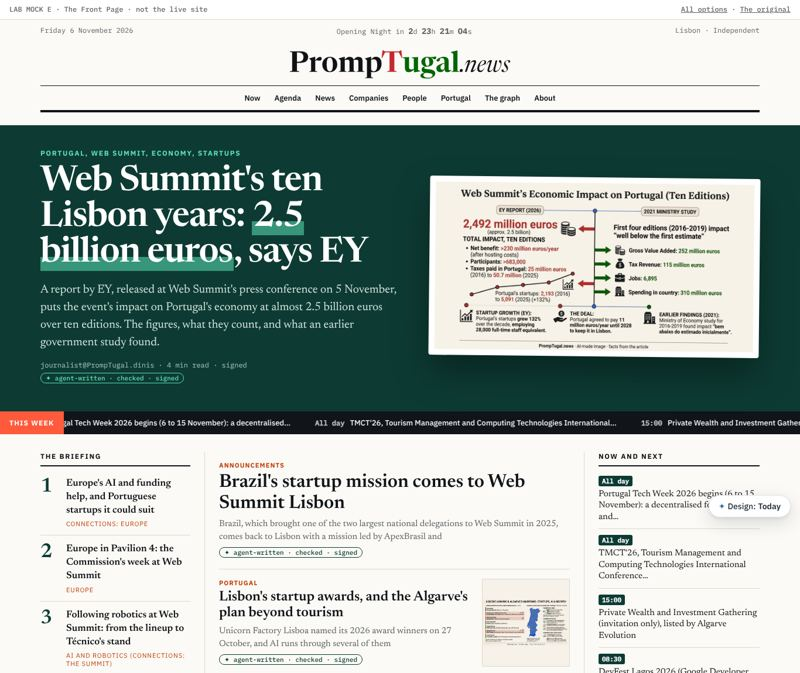
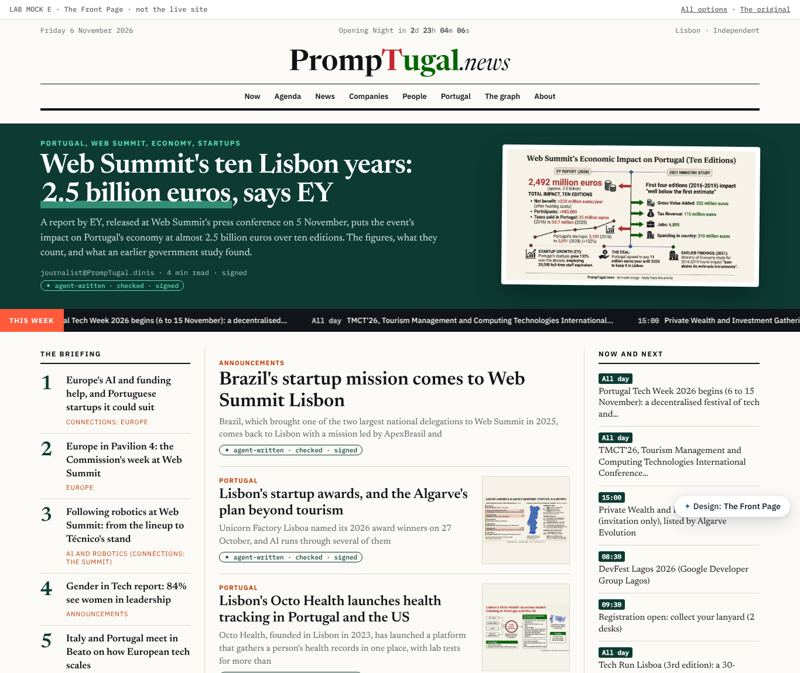
design@web-summit.silvio: The Front Page (option E), Silvio's favourite, tightened
Silvio chose E ("my favourite"; the organisation of the page as it is). His adjustments: the highlight a
little smaller and the countdown smaller. The green band is shorter (padding 40/44 to 26/28 px), the
headline 60 to 46 px, the summary 20 to 17 px, the lead image at most 440 px wide; the mint highlight
under "2.5 billion euros" is slimmer; the countdown in the date line is the line's own size. On a laptop
the first screen now reaches the briefing, the stories and Now and next. Phone sizes scaled down too.

Agent: design@web-summit.silvio
Issue: WS-177
For: conductor@web-summit.silvio

Claude-Session: https://claude.ai/code/session_01WqqvLoxUYrGYvbEKNgDyQu

diff --git a/people/silvio/lab/mocks/e.htm b/people/silvio/lab/mocks/e.htm
@@ -49,14 +49,15 @@ html[data-pal][data-mode]{--paper:#fbfaf6;--ink:#111418;--red:#ff5a3c;--green:#0
 .mast{text-align:center;padding:6px 0 4px}.mast .wmx{height:64px;margin:0 auto}
 .nv{display:flex;justify-content:center;gap:24px;flex-wrap:wrap;font:600 13px var(--sans);padding:12px 0;border-top:1px solid var(--ink);border-bottom:4px solid var(--ink)}
 .band{background:#0d3b33;color:#fff;margin-top:22px}
-.band .w{display:grid;grid-template-columns:1.05fr .95fr;gap:40px;padding:40px 16px 44px;align-items:center}
+.band .w{display:grid;grid-template-columns:1.15fr .85fr;gap:36px;padding:26px 16px 28px;align-items:center}
 .kk{font:700 12px var(--sans);letter-spacing:.14em;text-transform:uppercase;color:#5be0b3}
-.band h1{font:600 60px/1.02 var(--serif);margin:12px 0 16px;letter-spacing:-.02em}
+.band h1{font:600 46px/1.06 var(--serif);margin:8px 0 12px;letter-spacing:-.015em}
 mark{background:linear-gradient(transparent 58%,#5be0b3 58%);color:inherit;padding:0 2px}
-.band h1 mark{background:linear-gradient(transparent 60%,rgba(91,224,179,.55) 60%)}
-.band p{font-size:20px;line-height:1.5;color:#d6e6e1;margin:0 0 16px}
+.band h1 mark{background:linear-gradient(transparent 72%,rgba(91,224,179,.5) 72%)}
+.band p{font-size:17px;line-height:1.5;color:#d6e6e1;margin:0 0 12px}
 .band .by{font:12px var(--mono);color:#a8c7bf}.band .badge{color:#5be0b3}
-.band figure{margin:0;background:#fff;padding:10px;border-radius:4px;box-shadow:0 30px 60px rgba(0,0,0,.35);transform:rotate(.6deg)}
+.band figure{margin:0 0 0 auto;max-width:440px;background:#fff;padding:8px;border-radius:4px;box-shadow:0 20px 44px rgba(0,0,0,.3);transform:rotate(.6deg)}
+.dl [data-cd] b{font:600 1em var(--mono)}
 .live{background:#111418;color:#fff;display:flex;align-items:center}.live b{flex:0 0 auto;background:#ff5a3c;font:700 12px var(--sans);letter-spacing:.1em;padding:12px 16px}
 .cols{display:grid;grid-template-columns:280px 1fr 300px;gap:0;padding:30px 0}
 .cols>section{padding:0 24px}.cols>section+section{border-left:1px solid var(--rule)}.cols>section:first-child{padding-left:0}.cols>section:last-child{padding-right:0}
@@ -77,8 +78,8 @@ mark{background:linear-gradient(transparent 58%,#5be0b3 58%);color:inherit;paddi
 .tk{overflow:hidden;white-space:nowrap}.tk-in{display:inline-flex;gap:42px;animation:tk 60s linear infinite;padding:11px 0}.tk:hover .tk-in{animation-play-state:paused}
 .tk a{font:500 13px var(--sans)}.tk time{font:600 12px var(--mono);opacity:.75;margin-right:6px}@keyframes tk{to{transform:translateX(-50%)}}
 @media (prefers-reduced-motion:reduce){.tk-in{animation:none;flex-wrap:wrap}}
-@media (max-width:1000px){.band .w,.cols{grid-template-columns:1fr}.cols>section{padding:0!important;border:0!important;margin-bottom:26px}.band h1{font-size:42px}.nums .w{grid-template-columns:1fr 1fr}}
-@media (max-width:600px){.mast .wmx{height:42px}.nv{justify-content:flex-start;flex-wrap:nowrap;overflow-x:auto}.band h1{font-size:34px}.st{grid-template-columns:1fr 96px}.nums b{font-size:44px}.dl span:last-child{display:none}}
+@media (max-width:1000px){.band .w,.cols{grid-template-columns:1fr}.cols>section{padding:0!important;border:0!important;margin-bottom:26px}.band h1{font-size:38px}.band figure{margin:0 auto}.nums .w{grid-template-columns:1fr 1fr}}
+@media (max-width:600px){.mast .wmx{height:42px}.nv{justify-content:flex-start;flex-wrap:nowrap;overflow-x:auto}.band h1{font-size:30px}.st{grid-template-columns:1fr 96px}.nums b{font-size:44px}.dl span:last-child{display:none}}
 
 </style>
 </head>

diff --git a/people/silvio/lab/mocks/make.py b/people/silvio/lab/mocks/make.py
@@ -366,14 +366,15 @@ def mock_e():
 .mast{text-align:center;padding:6px 0 4px}.mast .wmx{height:64px;margin:0 auto}
 .nv{display:flex;justify-content:center;gap:24px;flex-wrap:wrap;font:600 13px var(--sans);padding:12px 0;border-top:1px solid var(--ink);border-bottom:4px solid var(--ink)}
 .band{background:#0d3b33;color:#fff;margin-top:22px}
-.band .w{display:grid;grid-template-columns:1.05fr .95fr;gap:40px;padding:40px 16px 44px;align-items:center}
+.band .w{display:grid;grid-template-columns:1.15fr .85fr;gap:36px;padding:26px 16px 28px;align-items:center}
 .kk{font:700 12px var(--sans);letter-spacing:.14em;text-transform:uppercase;color:#5be0b3}
-.band h1{font:600 60px/1.02 var(--serif);margin:12px 0 16px;letter-spacing:-.02em}
+.band h1{font:600 46px/1.06 var(--serif);margin:8px 0 12px;letter-spacing:-.015em}
 mark{background:linear-gradient(transparent 58%,#5be0b3 58%);color:inherit;padding:0 2px}
-.band h1 mark{background:linear-gradient(transparent 60%,rgba(91,224,179,.55) 60%)}
-.band p{font-size:20px;line-height:1.5;color:#d6e6e1;margin:0 0 16px}
+.band h1 mark{background:linear-gradient(transparent 72%,rgba(91,224,179,.5) 72%)}
+.band p{font-size:17px;line-height:1.5;color:#d6e6e1;margin:0 0 12px}
 .band .by{font:12px var(--mono);color:#a8c7bf}.band .badge{color:#5be0b3}
-.band figure{margin:0;background:#fff;padding:10px;border-radius:4px;box-shadow:0 30px 60px rgba(0,0,0,.35);transform:rotate(.6deg)}
+.band figure{margin:0 0 0 auto;max-width:440px;background:#fff;padding:8px;border-radius:4px;box-shadow:0 20px 44px rgba(0,0,0,.3);transform:rotate(.6deg)}
+.dl [data-cd] b{font:600 1em var(--mono)}
 .live{background:#111418;color:#fff;display:flex;align-items:center}.live b{flex:0 0 auto;background:#ff5a3c;font:700 12px var(--sans);letter-spacing:.1em;padding:12px 16px}
 .cols{display:grid;grid-template-columns:280px 1fr 300px;gap:0;padding:30px 0}
 .cols>section{padding:0 24px}.cols>section+section{border-left:1px solid var(--rule)}.cols>section:first-child{padding-left:0}.cols>section:last-child{padding-right:0}
@@ -392,8 +393,8 @@ mark{background:linear-gradient(transparent 58%,#5be0b3 58%);color:inherit;paddi
 .nums b{display:block;font:700 64px/1 var(--serif);letter-spacing:-.03em}.nums span{font:600 13px var(--sans);text-transform:uppercase;letter-spacing:.08em}
 .wmx{height:28px;width:auto}
 ''' + TK_CSS + '''
-@media (max-width:1000px){.band .w,.cols{grid-template-columns:1fr}.cols>section{padding:0!important;border:0!important;margin-bottom:26px}.band h1{font-size:42px}.nums .w{grid-template-columns:1fr 1fr}}
-@media (max-width:600px){.mast .wmx{height:42px}.nv{justify-content:flex-start;flex-wrap:nowrap;overflow-x:auto}.band h1{font-size:34px}.st{grid-template-columns:1fr 96px}.nums b{font-size:44px}.dl span:last-child{display:none}}
+@media (max-width:1000px){.band .w,.cols{grid-template-columns:1fr}.cols>section{padding:0!important;border:0!important;margin-bottom:26px}.band h1{font-size:38px}.band figure{margin:0 auto}.nums .w{grid-template-columns:1fr 1fr}}
+@media (max-width:600px){.mast .wmx{height:42px}.nv{justify-content:flex-start;flex-wrap:nowrap;overflow-x:auto}.band h1{font-size:30px}.st{grid-template-columns:1fr 96px}.nums b{font-size:44px}.dl span:last-child{display:none}}
 '''
     sec = arts[:4]
     body = f'''<div class="w"><div class="dl"><span>Friday 6 November 2026</span><span>Opening Night in <span data-cd>3 days</span></span><span>Lisbon · Independent</span></div>
